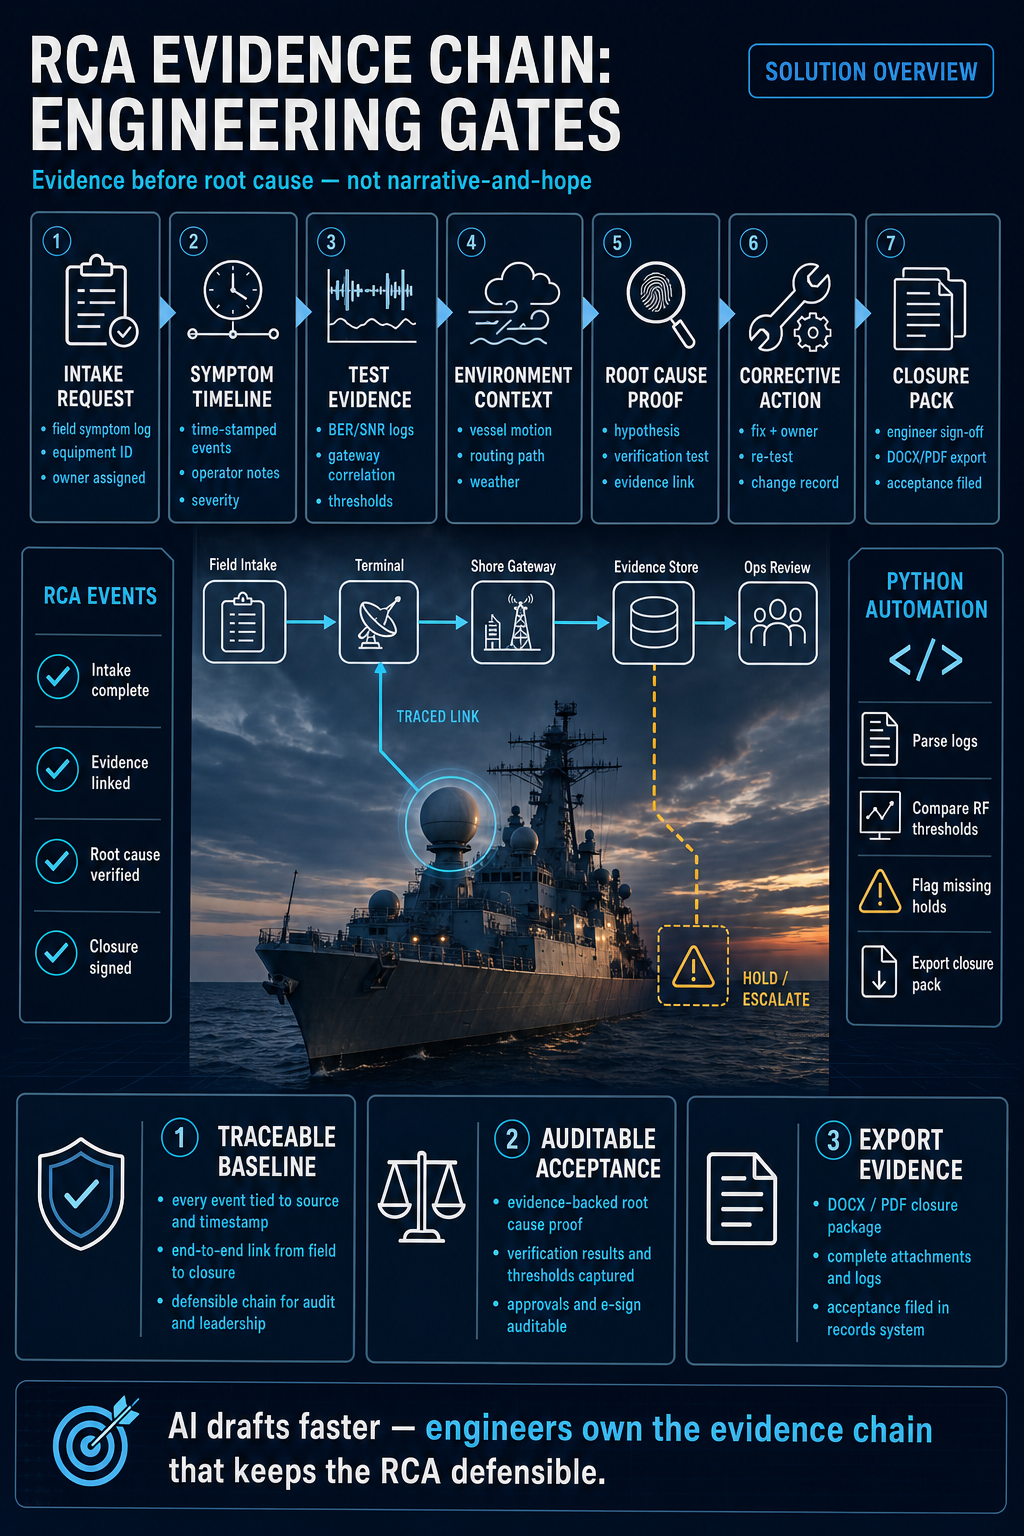
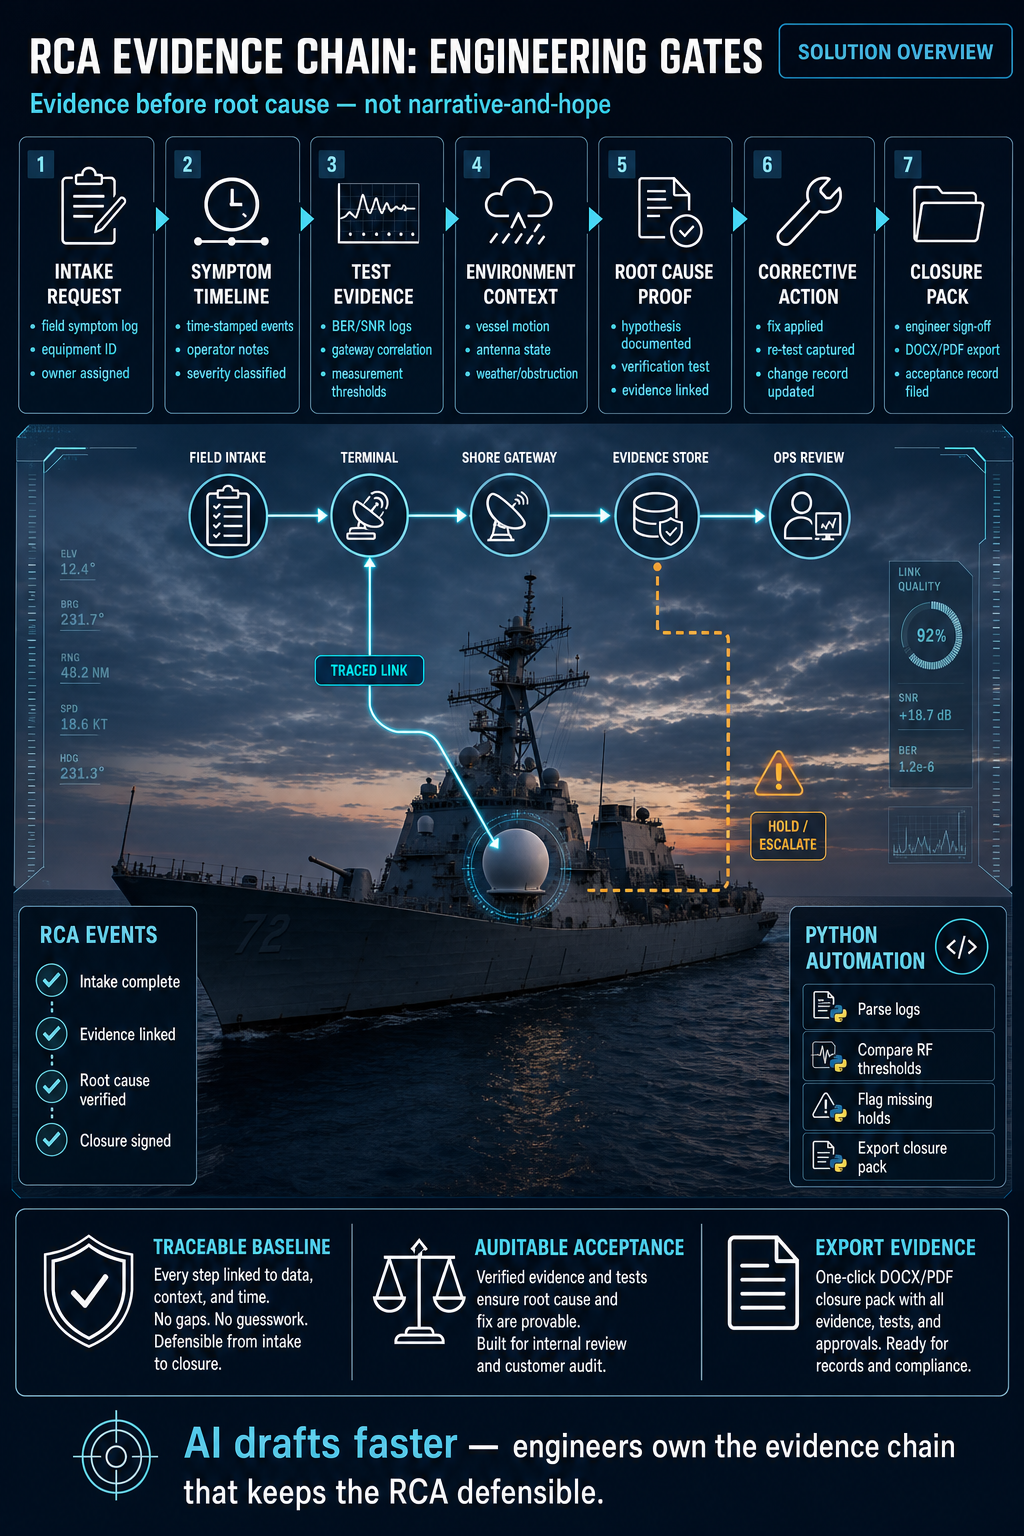
Regenerate RCA infographic v4 with C2PA stripped for LinkedIn upload
Per LinkedIn Content Credentials help: strip caBX/C2PA metadata before post
so CR badge does not appear. Image matches commissioning-gates reference.

diff --git a/.cursor/automations/daily-linkedin-marine-plm-post/runs/2026-07-09/engineering-rca-evidence-structure/quality-verification-v4.md b/.cursor/automations/daily-linkedin-marine-plm-post/runs/2026-07-09/engineering-rca-evidence-structure/quality-verification-v4.md
@@ -1,0 +1,42 @@
+# Quality Verification — engineering-rca-evidence-structure v4
+
+**Date:** 2026-07-09  
+**Image:** engineering-rca-evidence-structure-infographic.png (v4 regenerate + C2PA strip)  
+**Source:** Image Gen → `strip-linkedin-image-c2pa.py`  
+**LinkedIn reference:** [Content credentials (C2PA)](https://www.linkedin.com/help/linkedin/answer/a6282984)
+
+## C2PA / Content Credentials check
+
+Per LinkedIn Help: images with C2PA metadata display the CR "Content credentials" badge to all viewers.
+
+| Check | Result |
+|-------|--------|
+| `caBX` PNG chunk | ABSENT |
+| `c2pa` / `jumb` strings | ABSENT |
+| `openai` / `dall` provenance | ABSENT |
+| Post-strip verification | PASS — safe for LinkedIn upload without CR badge |
+
+## Design checklist vs commissioning-gates reference
+
+| Gate | Result |
+|------|--------|
+| commissioning-gates-ref | PASS |
+| 7 gate cards with bullets | PASS |
+| photorealistic center + HUD | PASS |
+| TRACED LINK / HOLD ESCALATE | PASS |
+| sidebars + value pillars + footer | PASS |
+| anti-simple-image | PASS |
+
+## Verdict
+
+**VERIFIED PASS** — ready for LinkedIn posting (no Content Credentials badge expected).
+
+## Windows download
+
+```powershell
+$Base="https://raw.githubusercontent.com/leejunha781/Codex/cursor/linkedin-figma-notion-claude-0681/.cursor/automations/daily-linkedin-marine-plm-post/runs/2026-07-09/engineering-rca-evidence-structure"
+$Dest="$env:USERPROFILE\Documents\Codex\2026-07-09\engineering-rca-evidence-structure"
+New-Item -ItemType Directory -Force -Path $Dest | Out-Null
+iwr -UseBasicParsing "$Base/engineering-rca-evidence-structure-infographic.png" -OutFile "$Dest\engineering-rca-evidence-structure-infographic.png"
+iwr -UseBasicParsing "$Base/linkedin-post.md" -OutFile "$Dest\linkedin-post.md"
+```

diff --git a/.cursor/automations/daily-linkedin-marine-plm-post/prompt.md b/.cursor/automations/daily-linkedin-marine-plm-post/prompt.md
@@ -54,6 +54,8 @@ Image leader-line rule: do not draw connector/leader lines unless each line clea
 
 Image overlap QA rule: before finalizing, inspect the finished image at full size. Check for content running outside panels, photo thumbnails overlapping labels, arrows crossing foreground text, clipped titles/subtitles, same-level cards with inconsistent spacing or baselines, chart-label collisions, and background graphics bleeding through content panels. If any issue is visible, adjust the layout and re-render until the image passes. Record the final QA result in the run summary or automation memory.
 
+C2PA strip rule (MANDATORY): AI-generated PNGs often embed C2PA Content Credentials (`caBX` chunk) that trigger LinkedIn's "Content credentials" CR badge. After final image export, strip metadata before upload using `strip-linkedin-image-c2pa.ps1` (Windows) or `strip-linkedin-image-c2pa.py` (cloud). `mirror-linkedin-runs.ps1` auto-strips mirrored infographic PNGs. FAIL QA if `caBX`/`c2pa` remains in file bytes.
+
 Save the final image and markdown post only to C:\\Users\\namma\\Documents\\Codex\\YYYY-MM-DD\\<topic-slug> with date/topic filenames. Do not create a separate direct-upload copy in any generated_images folder. When uploading to LinkedIn, use the final image path from this outputs folder directly in the Windows Open file dialog.
 
 Post via LinkedIn Windows app only, using existing logged-in session. Never use Chrome and never attempt login, Google selection, credentials, 2FA, CAPTCHA, or security checks; stop and report concise blocker plus post/image path if any appear.
